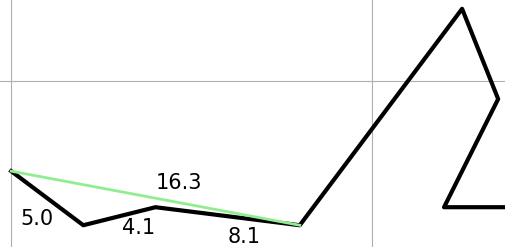
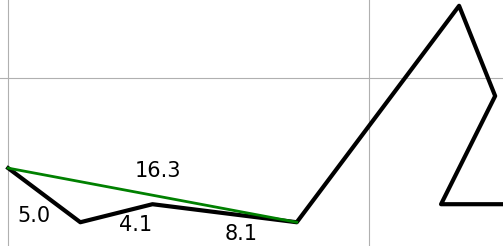
Recolor lightgreen images to green

Changed region(s): [[0.0, 0.0, 1.0, 1.0], [0.8648, 0.3984, 1.0, 0.8537], [0.0596, 0.7683, 0.0895, 0.7967]]

diff --git a/python/start.py b/python/start.py
@@ -33,7 +33,7 @@ def plot_approximation(path, indices):
     x_list = [path[i].x for i in indices]
     y_list = [path[i].y for i in indices]
     line = plt.plot(x_list, y_list)
-    plt.setp(line, color='green', linewidth=5)
+    plt.setp(line, color='green', linewidth=3)
 
 
 def print_edges(edges):
@@ -47,15 +47,16 @@ def print_edge_lengths(path, S):
 
 
 def plot_edge_lengths():
-    plots.plot_points(path, [0, 4], 'red')
+    plots.plot_points(path, [0, 3], 'green')
     plots.plot_text_on_edge(path[0], path[1], round(S[1], 1), (-1.5, -1.5))
     plots.plot_text_on_edge(path[1], path[2], round(S[2] - S[1], 1), (0.15, -1))
     plots.plot_text_on_edge(path[2], path[3], round(S[3] - S[2], 1), (0, -1.5))
     plots.plot_text_on_edge(path[3], path[4], round(S[4] - S[3], 1), (0.8, -0.3))
-    plots.plot_text_on_edge(path[0], path[4], round(util.euclidean_distance(path[0], path[4]), 1), (-1, 1))
+    plots.plot_text_on_edge(path[0], path[3], round(util.euclidean_distance(path[0], path[3]), 1), (-1, 1))
 
 
 S = util.flatten_path(path)
+print([round(s, 1) for s in S])
 t_edges = util.get_t_distance_preserving_edges(path, t, S)
 all_edges = util.get_path_edges(path) + t_edges
 
@@ -70,8 +71,10 @@ adjacency_list = bfs.create_adjacency_list(path, all_edges)
 shortest_path = bfs.shortest_path(adjacency_list, 1, n)
 plots.plot_path(path, 5)
 # plots.plot_edges(edges_epsilon, 'green')
-plots.plot_edges(t_edges, 'orange')
-plot_approximation(path, np.array(shortest_path) - 1)
+# plots.plot_edges(t_edges, 'orange')
+# plot_approximation(path, np.array(shortest_path) - 1)
+plot_approximation(path, [0, 2, 4, 6, 7, 8, 9, 11, 12])
+# plot_edge_lengths()
 plt.show()
 
 T = SplitTree.compute_split_tree(S, 0, n - 1)
